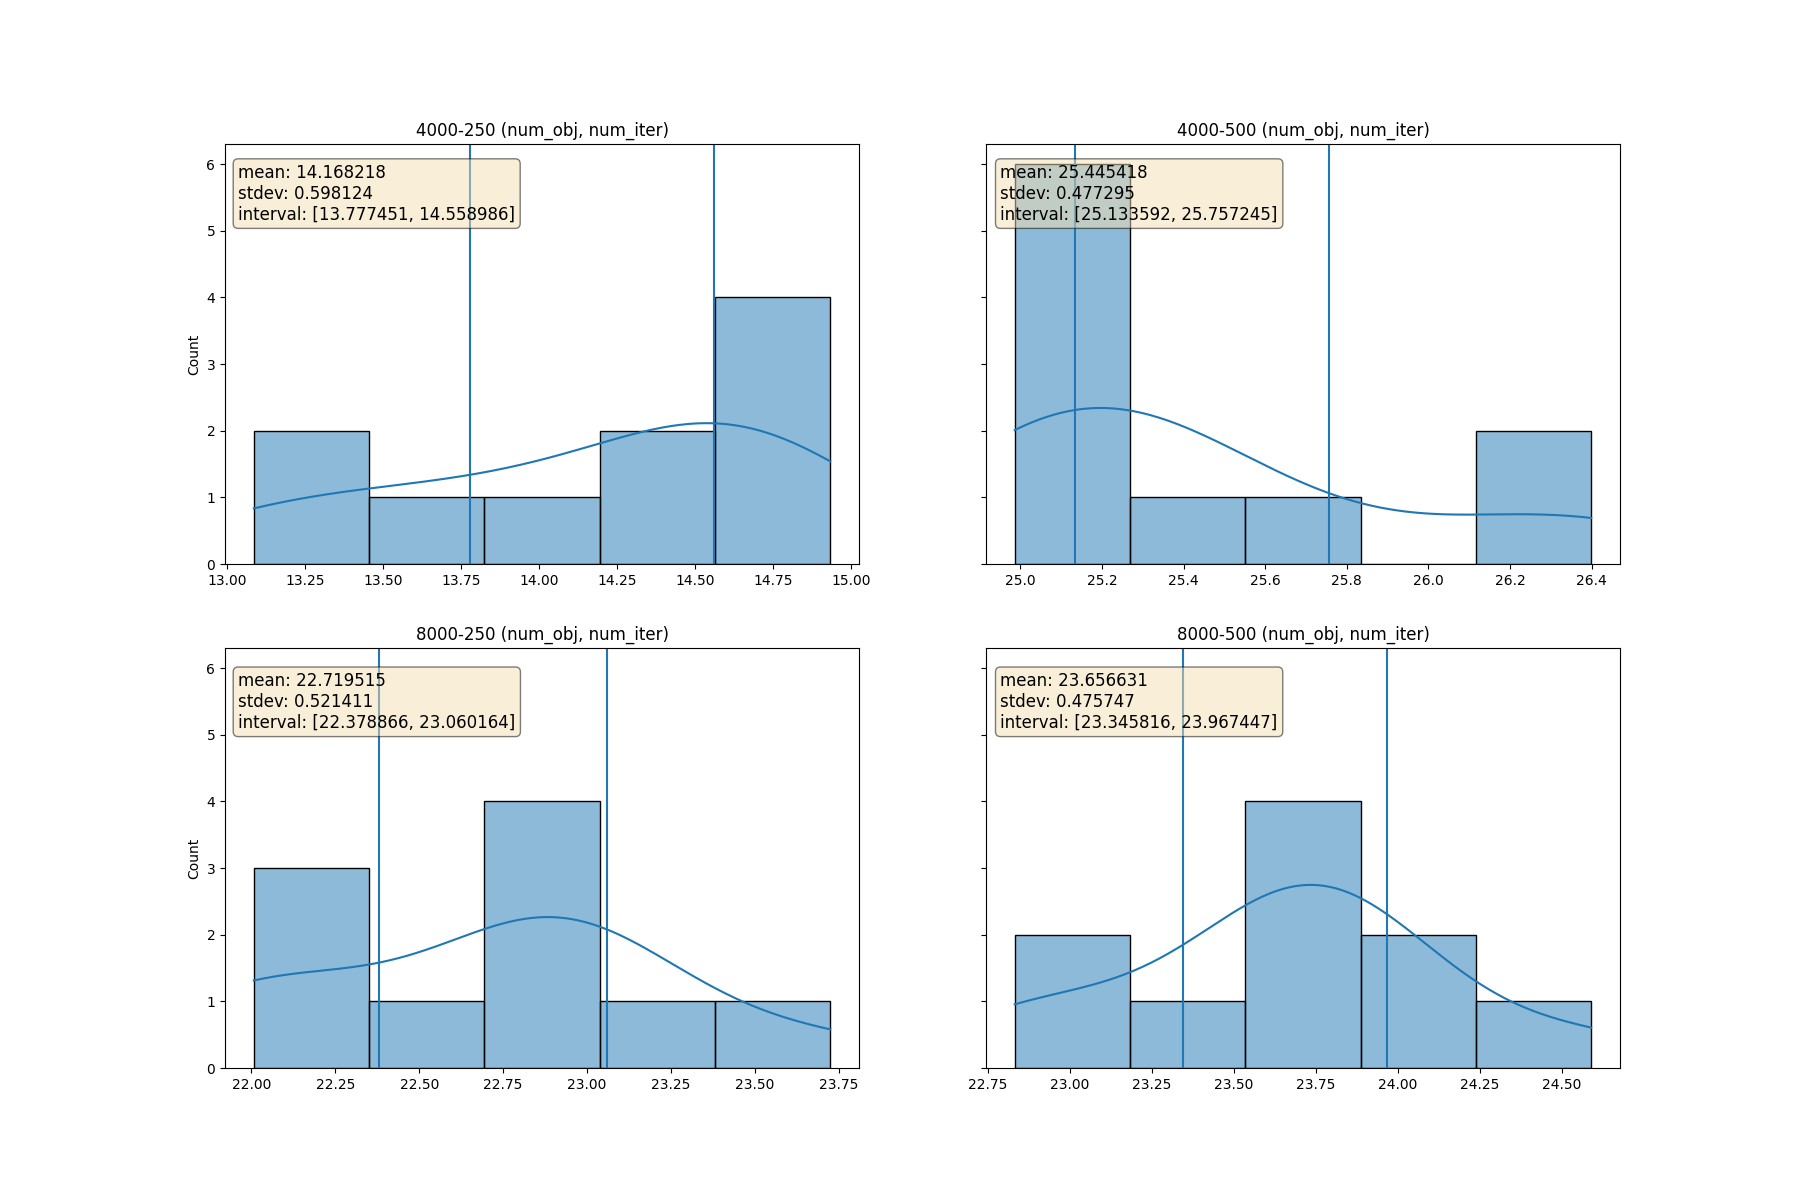
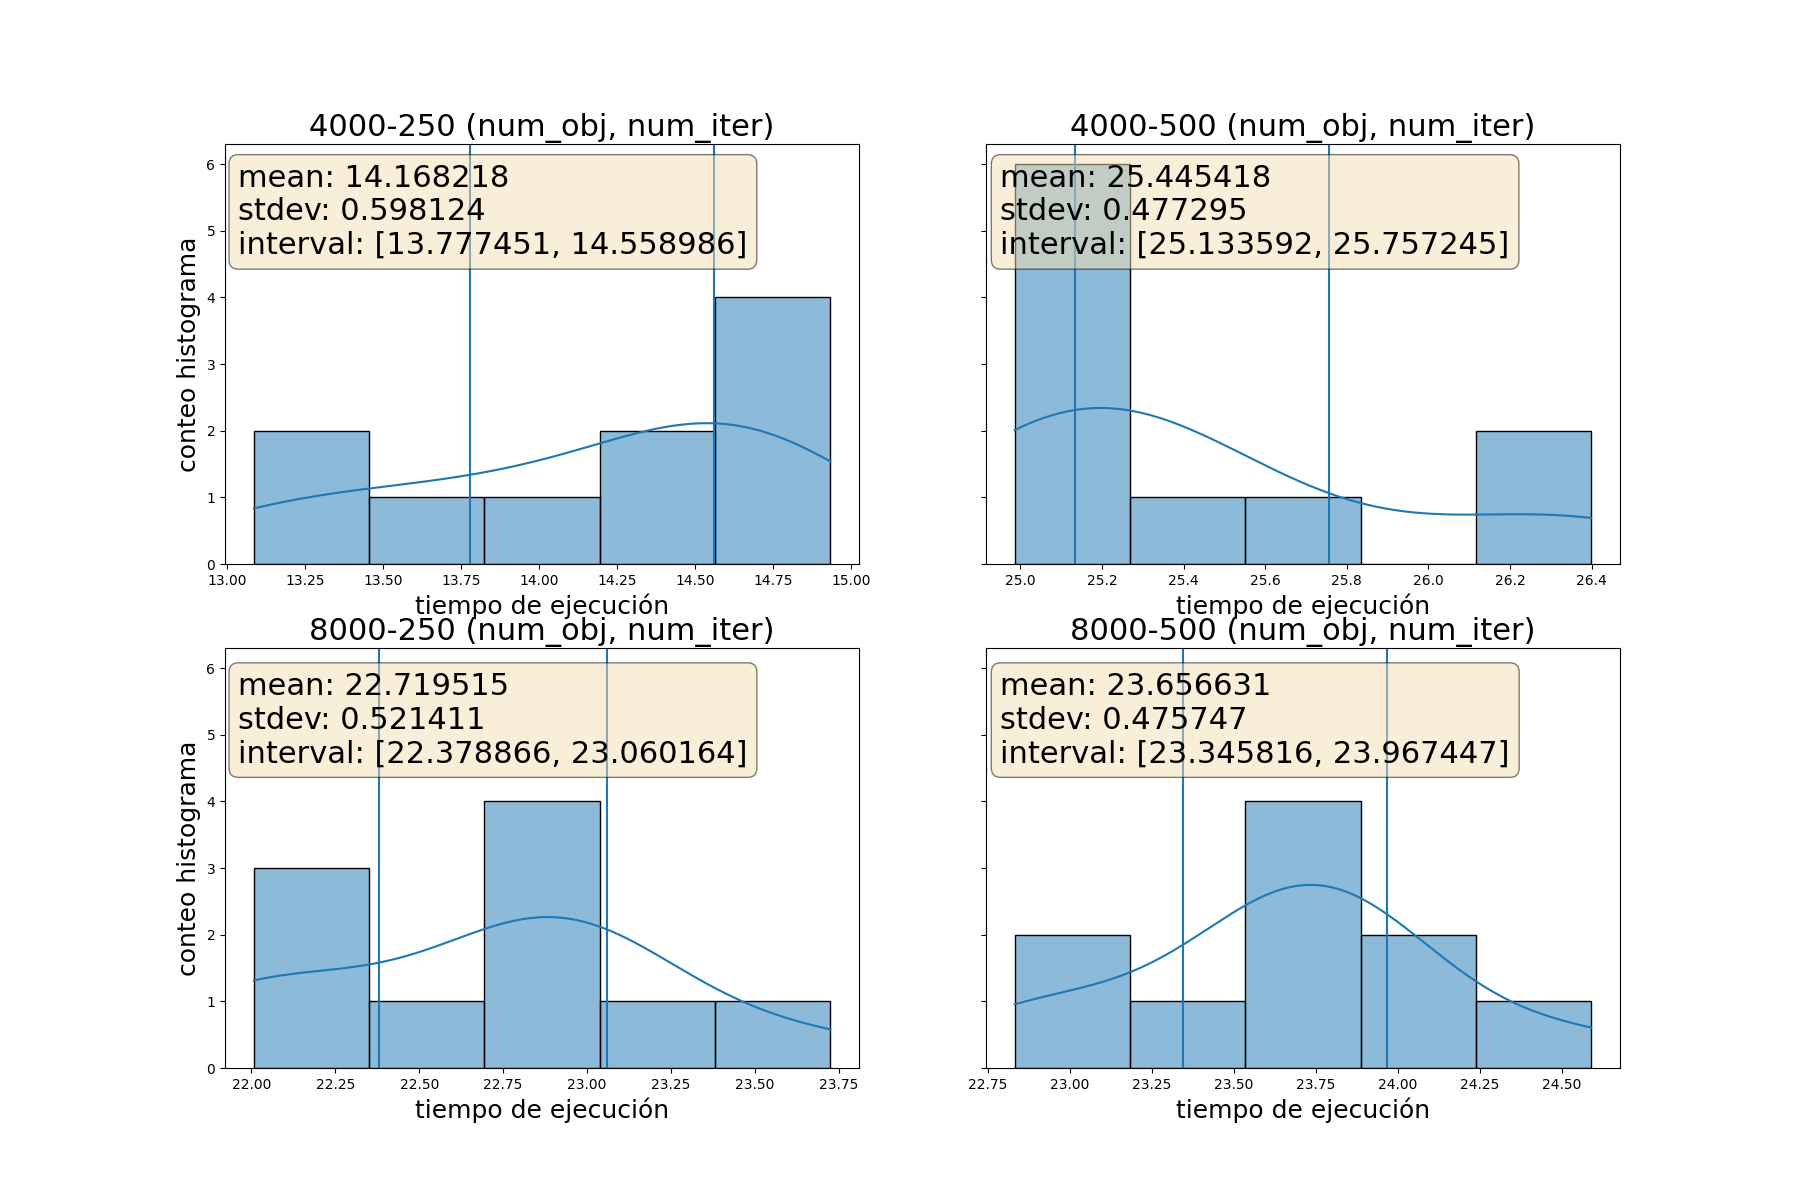
imagenes en memoria

diff --git a/p_2/memoria/memoria.tex b/p_2/memoria/memoria.tex
@@ -390,47 +390,47 @@ la pena optimizar, o si no se contemplaron mejores optimizaciones a la hora de p
 
 \begin{figure}[htp]
 	%\centering
-	\hspace*{-2cm}
-	\subfloat{%
-		\includegraphics[width=0.72\linewidth,height=0.6\linewidth]{resources/8core_samples_conf_interval.png}
+	\hspace*{-3.5cm}
+	\subfloat[Pruebas con 8 hilos de ejecución.]{%
+		\includegraphics[width=0.8\linewidth,height=0.65\linewidth]{resources/8core_samples_conf_interval.png}
 		\label{fig:8core}
 	}%
 	%\hfill%
-	\subfloat{%
-		\includegraphics[width=0.72\linewidth,height=0.6\linewidth]{resources/16core_samples_conf_interval.png}
+	\subfloat[Pruebas con 16 hilos de ejecución.]{%
+		\includegraphics[width=0.8\linewidth,height=0.65\linewidth]{resources/16core_samples_conf_interval.png}
 		%\caption{Pruebas con 16 núcleos}
 		\label{fig:16core}
 	}%
-	\caption{Pruebas con 8 y 16 núcleos (izquierda y derecha, respectivamente)}
+	\caption{}
 \end{figure}
 \begin{figure}[htp]
 	%\centering
-	\hspace*{-2cm}
-	\subfloat{%
-		\includegraphics[width=0.72\linewidth,height=0.6\linewidth]{resources/2core_samples_conf_interval.png}
+	\hspace*{-3.5cm}
+	\subfloat[Pruebas con 2 hilos de ejecución.]{%
+		\includegraphics[width=0.8\linewidth,height=0.65\linewidth]{resources/2core_samples_conf_interval.png}
 		\label{fig:2core}
 	}%
 	%\hfill%
-	\subfloat{%
-		\includegraphics[width=0.72\linewidth,height=0.6\linewidth]{resources/4core_samples_conf_interval.png}
+	\subfloat[Pruebas con 4 hilos de ejecución.]{%
+		\includegraphics[width=0.8\linewidth,height=0.65\linewidth]{resources/4core_samples_conf_interval.png}
 		\label{fig:4core}
 	}%
-	\caption{Pruebas con 2 y 4 núcleos (izquierda y derecha, respectivamente)}
+	\caption{}
 \end{figure}
 \begin{figure}[htp]
 	%\centering
-	\hspace*{-2cm}
-	\subfloat{%
-		\includegraphics[width=0.72\linewidth,height=0.6\linewidth]{resources/1core_samples_conf_interval.png}
+	\hspace*{-3.5cm}
+	\subfloat[Pruebas con 1 hilo de ejecución en algoritmo paralelo]{%
+		\includegraphics[width=0.8\linewidth,height=0.65\linewidth]{resources/1core_samples_conf_interval.png}
 		%\caption{Pruebas con 16 núcleos}
 		\label{fig:1core}
 	}%
 	%\hfill%
-	\subfloat{%
-		\includegraphics[width=0.72\linewidth,height=0.6\linewidth]{resources/p_1_samples_conf_interval.png}
+	\subfloat[Pruebas con 1 hilo de ejecución en algoritmo secuencial de la sección \ref{original}]{%
+		\includegraphics[width=0.8\linewidth,height=0.65\linewidth]{resources/p_1_samples_conf_interval.png}
 		\label{fig:p_1}
 	}%
-	\caption{Pruebas con 1 núcleo en algoritmo paralelo y con algoritmo original según la sección \ref{original} (izquierda y derecha, respectivamente)}
+	\caption{}
 \end{figure}
 
 \subsection{Secuencial vs. Paralelo.}

diff --git a/p_2/src/tests/statistic.py b/p_2/src/tests/statistic.py
@@ -48,14 +48,16 @@ if __name__ == "__main__":
     i = j = 0
     for k in data.keys():
         sns.histplot(data=data[k], kde=True, ax=axes[i, j])
-        axes[i, j].set_title(k + " (num_obj, num_iter)")
+        axes[i, j].set_title(k + " (num_obj, num_iter)", size=22)
+        axes[i,j].set_xlabel('tiempo de ejecución', fontsize=18)
+        axes[i,j].set_ylabel('conteo histograma', fontsize=18)
         axes[i, j].axvline(conf_interval[k][0])
         axes[i, j].axvline(conf_interval[k][1])
         textstr = "mean: %f\nstdev: %f\ninterval: [%f, %f]"\
                 % (np.mean(data[k]), np.std(data[k]), conf_interval[k][0], conf_interval[k][1])
         props = dict(boxstyle="round", facecolor="wheat", alpha=0.5)
         # los valorse para las coordenadas x e y del texto son obtenidos con prueba y error
-        axes[i, j].text(0.35+(j*1.65) , 2.1 - 1.10*i, s=textstr, transform=ax.transAxes, fontsize=12,
+        axes[i, j].text(0.35+(j*1.65) , 2.1 - 1.10*i, s=textstr, transform=ax.transAxes, fontsize=22,
                         verticalalignment='top', bbox=props)
         j = (j + 1) % 2
         if j == 0:
